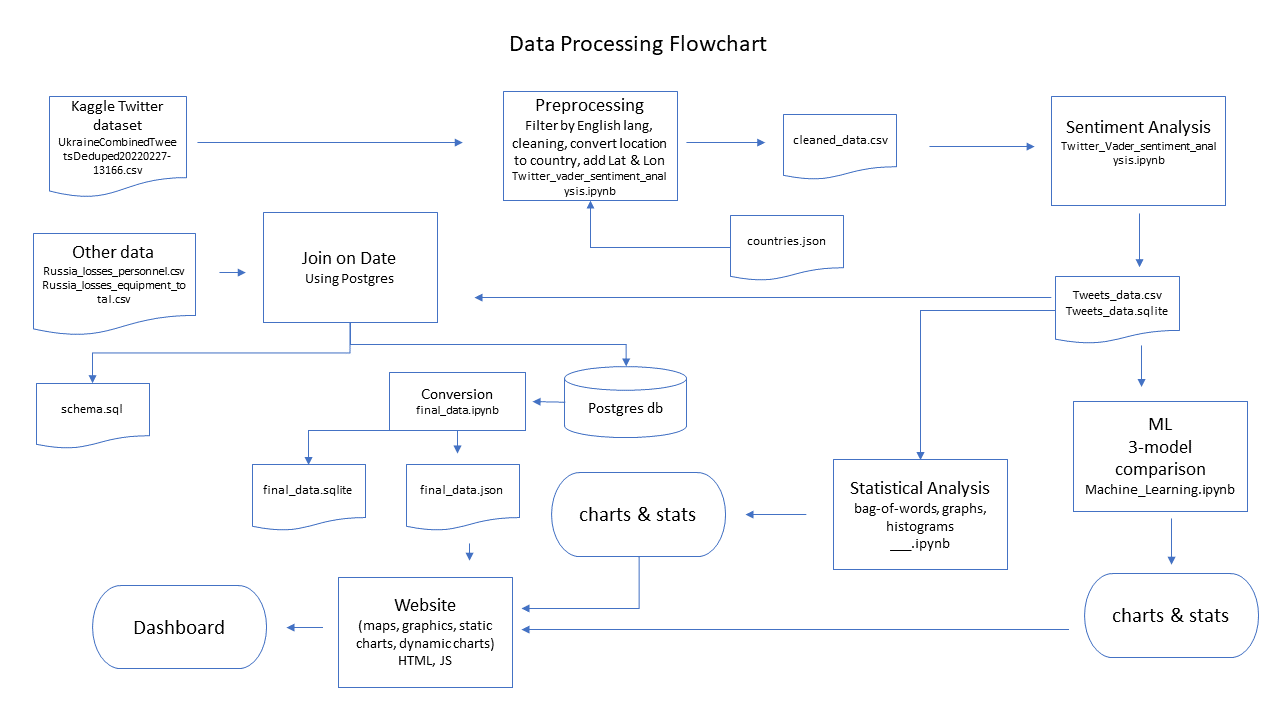
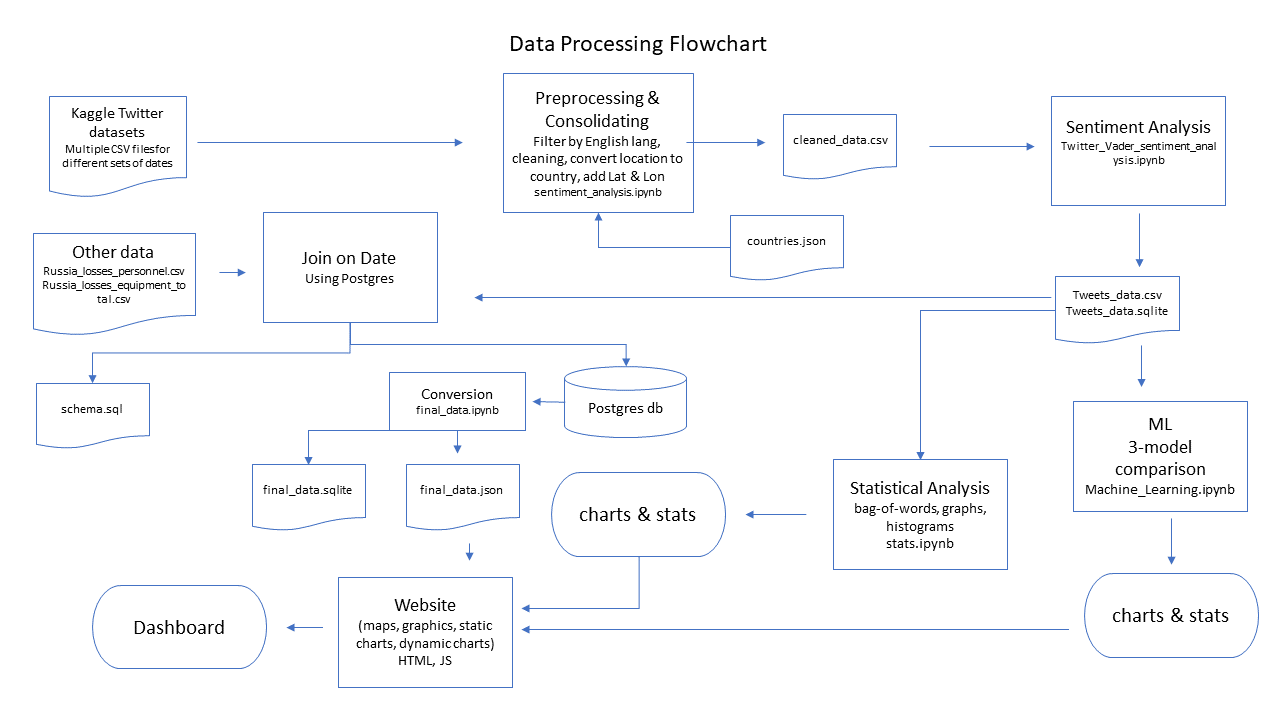
Added process description and files used to the README, and workflow file

Changed region(s): [[0.4062, 0.1222, 0.5312, 0.3056], [0.0312, 0.1222, 0.1562, 0.2444], [0.6875, 0.7333, 0.75, 0.7639]]

diff --git a/README.md b/README.md
@@ -17,7 +17,7 @@ Sentiment Analysis is an important way to understand the audience and hence make
 
 ### Setbacks of Sentiment Analysis
 Sentiment Analysis is a popular way, companies can get information regarding public opinion and their inclination towards or against issues. However, it is not perfect, since there can be discrepancies in the data accumulated and this can lead to minor to major changes in the final result analysis. Few of the major hurdles in performing sentiment anlaysis are discusse below:
-1. Tone of people's voice - Th etone of people's voice can sadly not be identified 100% of the times. Sarcasm and irony can b emisinterpreted and misevaluated an dend up getting categorized incorrectly. This problem can be difficult for humans to decipher in day-to-day lives, let alone any algorithm. 
+1. Tone of people's voice - The tone of people's voice can sadly not be identified 100% of the times. Sarcasm and irony can b emisinterpreted and misevaluated an dend up getting categorized incorrectly. This problem can be difficult for humans to decipher in day-to-day lives, let alone any algorithm. 
 2. Emojis - Wrong use of emojis for sentiment expression can end up in getting skewed results. Sometimes, people can get confused with what emotion an emoji actually represents and hence alter the sentiment altogether. 
 
 
@@ -63,21 +63,24 @@ Specific roles have not yet been assigned to members as the group is deciding to
 
 ## Technologies Used
 ### A.  Data Cleaning and Analysis
-Pandas in Python will be used to clean the data and perform an exploratory analysis. Further analysis will be completed using Python. A number of different libraries that can be used for our project are described below:
+Pandas in Python will be used to clean the data and perform an exploratory analysis. Further analysis will be completed using Python. A number of different libraries that were used for our project are described below:
 
-#### 1. Tweepy - 
-It allows Python to access the Twitter platform/database using its API. A twiiter developer account will be required to get access to the API. We are still working on this aspect of the project. 
+#### 1. Sentiment Analysis using Vader
+The VADER (Valence Aware Dictionary for sEntiment Reasoning) sentiment analysis model, relies on a dictionary that maps words and other lexical features common to microblogs. F1 scores have been calculated to approach 0.95 ([see research paper](https://www.researchgate.net/publication/275828927_VADER_A_Parsimonious_Rule-based_Model_for_Sentiment_Analysis_of_Social_Media_Text)). It provides pos, neu, and neg scores, which are ratios for proportions of text that fall in each category (so they add up to 1), as well as a compound score normalized between -1 and 1. 
+The Heuristics of VADER are:
+1. Punctuation
+2. Capitalization
+3. Degree modifiers (also called booster words) 
+4. Polarity shift due to Conjunctions
+5. Catching Polarity Negation
 
-#### 2. WordCloud - 
-A wordCloud is referred to as a cluster of words that are shown in different sizes depending on their usage. The frequently used words are displayed in bigger bolder font and the lesser used words are shown in smaller font sizes. They are also known as text clouds or tag clouds. 
-
-#### 3. TextBlob - 
-It si a Python library for text processing. It is used in performing Natural Language Processing tasks such as sentiment analysis, classification, translation, parts of speech tagging and phrase extraction. 
+#### 2. Sentiment Analysis using TextBlob
+It is a Python library for text processing. It is used in performing Natural Language Processing tasks such as sentiment analysis, classification, translation, parts of speech tagging and phrase extraction. 
 
 Anaconda prompt will be used to install all the Python libraries. 
 
 ### B.  Database Storage
-PostgreSQL is the database we intend to use, and we will integrate Flask to display the data.
+The final data is exported to SQLite for later access. [Current zipped version can be found here](resources/data set/tweets_data.sqlite.zip). The [schema used can be found here](resources/schema.sql)
 
 ### C.  Machine Learning
 SciKitLearn is the Machine Learning library we'll be using to create a classifier. Our training and testing setup is 
@@ -118,16 +121,20 @@ Pipeline steps to follow (could use separate notebooks for each step):
 
 ![project pipeline](https://user-images.githubusercontent.com/23488019/158079683-59057a33-11ee-42c4-bcac-af917b35b83d.PNG)
  
- The steps to be completed for Twitter Sentiment Analysis are shown below:
- 1. Collecting Data
- 2. Preprocessing Data
- 3. Exploratory Data processing 
- 4. Splitting data into Training and Test sebsets
- 5. Applying Machine model and transformations. sentiment Analysis with Logistic Regression and other models.
- 6. Evaluating the Model
- 7. Data Visualizations
- 8.  Deploying the model and visualizations at the web app. 
-
-
+ 
 ## Summary
+ The steps for the analysis are as follows:
+ 1. **Collecting Data**: From [Kaggle dataset](https://www.kaggle.com/datasets/bwandowando/ukraine-russian-crisis-twitter-dataset-1-2-m-rows)
+ 2. **Preprocessing Data**: (data cleaning, filter by English language, and selected countries) (Twitter_Vader_Sentiment_Analysis_Data_Cleaning.ipynb)[Twitter_Vader_Sentiment_Analysis_Data_Cleaning.ipynb]. Due to the size of each dataset collected by ranges of dates, each file was processes separately, and later consolidated for analysis.
+ 3. **Sentiment Analysis**: Using (VADER)[Twitter_Vader_Sentiment_Analysis_Data_Cleaning.ipynb]. A compound score is calculated. This is converted into overall 'positive','negative' or 'neutral' values, and aggregated to each tweet data.
+ 4. **Machine Learning Model**:
+  Evaluated various models in [Machine_Learning](Machine_Learning.ipynb), where a function was created to compare the accuracy of 3 models: Naive Bayes, Logistic Regression, and Linear SVC.
+ 7. **Data Visualizations**: A working presentation has been added to [Google docs](https://docs.google.com/presentation/d/1uzYRtAgBxeyVoteSkImERVQHtRtEBiBFCAVat05HdC0/edit?usp=sharing)
+ 8. **Database**: A copy of the datasets can be found in [the resources data sets folder](resources/data%20set/tweets_data.sqlite.zip) using the following [schema](resources/schema.sql), as laid out below:
+ ![screenshot of schema](resources/images/schema.png)
+ 9. **Deploying the model and visualizations at the web app** (in progress). 
+
+![Diagram of the process steps](resources/images/flowchart.png)
+*Diagram of the steps followed and the files involved*
+
 
